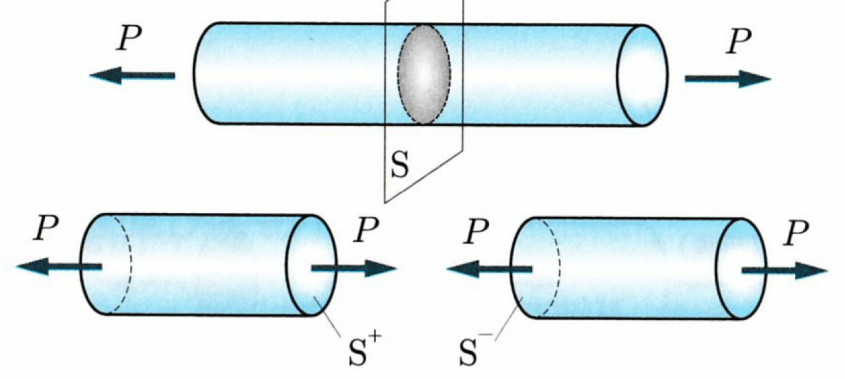
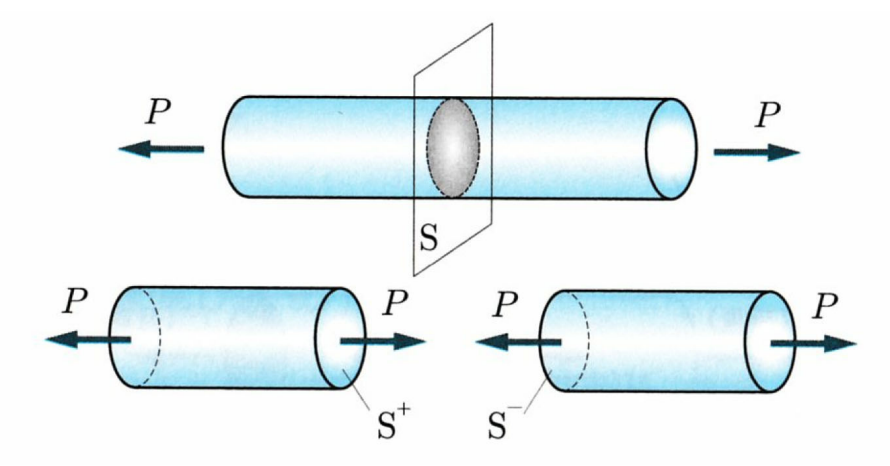
vault backup: 2023-09-27 13:48:56

diff --git a/2023_ss/233_材料力学/2.応力とひずみ(歪).md b/2023_ss/233_材料力学/2.応力とひずみ(歪).md
@@ -1,0 +1,49 @@
+![[2332-1.png|500]]
+${\color{blue}引張荷重}$:ある断面に対し、${\color{blue}外側}$にその面を引っ張る方向に作用する荷重
+${\color{blue}圧縮荷重}$:${\color{blue}内側}$にその面を押し付ける方向に作用する荷重
+${\color{blue}軸力}$:棒に作用する引張荷重や圧縮荷重
+> [!danger] 注意
+> 「荷重」は質量ではなく${\color{blue}力}$である
+
+## 加重の伝達
+![[2332-2.png|400]]
+図$1$ 棒に作用する引張荷重と内力(自由物体図)
+断面$\rm{S}$を${\color{blue}横断面}$と呼ぶ
+横断面$\rm{S}$において棒を仮想的に切断すると、$2$つの切断面$\rm{S}^{+}$及び$\rm{S}^{-}$には同じ大きさ$\rm{P}$の荷重が作用し、$2$つの棒の釣り合いが保たれる
+${\color{blue}内力}$:両端に逆向きの荷重を受けている時、外力を伝達するように、同じ大きさの荷重$\rm{P}$が物体内部に作用する
+
+> [!point] 定義
+> 棒を引っ張る方向に作用する荷重${\color{blue}(引張荷重)}$を${\color{blue}正}$
+> 逆向きの棒を圧縮する向きの荷重${\color{blue}(圧縮荷重)}$を${\color{blue}負}$
+> とする
+
+> [!point] トルク
+> 今回の講義ではモーメントとトルクは同義とする
+
+## 自由物体図
+${\color{blue}自由物体図}$:物体に対して作用する外力とモーメントとを図示して、その物体に対する力とモーメントのつり合いを考えるための図
+
+## 応力
+![[2332-3.png|400]]
+${\color{blue}応力\sigma}$:棒の両端に作用する荷重$\rm{P}[\rm{N}]$を棒の断面積$A[\rm{m^2}]$で割った、単位面積あたりに作用する力
+$$\begin{aligned}
+{\color{blue} \sigma = \frac{P}{A} \quad [\rm{Pa = N/m^2}] }
+\end{aligned}$$
+${\color{blue}垂直応力\sigma}$:応力が作用する面に対して、その法線方向に作用する応力
+${\color{blue}引張応力}$:応力の作用面を垂直に引張る方向に働く応力
+${\color{blue}圧縮応力}$:作用面に対して垂直に押し付ける方向に働く応力
+
+> [!point] 定義
+> ${\color{blue}引張応力}$を正
+> ${\color{blue}圧縮応力}$を負
+> とする
+![[2332-4.png|400]]
+
+## ひずみ(垂直ひずみ)
+![[2332-5.png|400]]
+${\color{blue}ひずみ}$:変形の割合
+長さ$L_0$の棒の両端に荷重$P$が加えられ、長さが$L$になったときを考える。
+$$\begin{aligned}
+伸び&: \quad{ \Delta L = L - L_0 } \\
+ひずみ&: \quad{ \varepsilon = \frac{\Delta L}{L_0} = \frac{L-L_0}{L_0} }
+\end{aligned}$$
